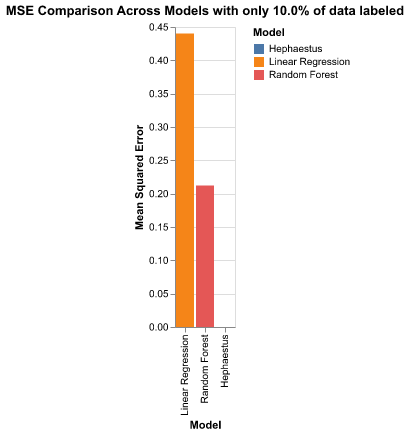
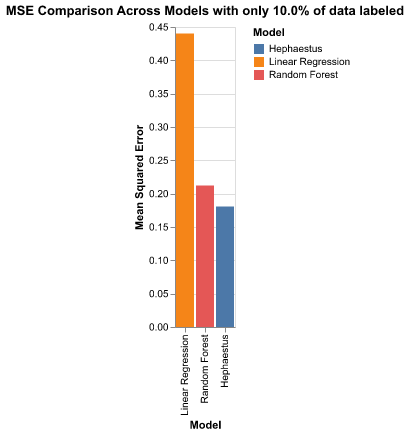
Refactor model training and visualization logic to improve MSE calculations, add baseline rules, and enhance performance improvement analysis

Changed region(s): [[0.5268, 0.4472, 0.5854, 0.7752]]

diff --git a/result_images/model_performance_comparison.html b/result_images/model_performance_comparison.html
@@ -21,7 +21,7 @@
   <div id="vis"></div>
   <script>
     (function(vegaEmbed) {
-      var spec = {"config": {"view": {"continuousWidth": 300, "continuousHeight": 300}}, "data": {"name": "data-e185016aee7650a039ba29e7da6c80b7"}, "mark": {"type": "line", "point": true}, "encoding": {"color": {"field": "Model", "type": "nominal"}, "tooltip": [{"field": "Model", "type": "nominal"}, {"field": "Label Ratio", "type": "quantitative"}, {"field": "MSE", "type": "quantitative"}, {"field": "RMSE", "type": "quantitative"}], "x": {"field": "Label Ratio", "scale": {"type": "log"}, "title": "Fraction of Labeled Data", "type": "quantitative"}, "y": {"field": "MSE", "title": "Mean Squared Error", "type": "quantitative"}}, "height": 400, "title": "MSE Comparison Across Models with Different Amounts of Labeled Data", "width": 600, "$schema": "https://vega.github.io/schema/vega-lite/v5.20.1.json", "datasets": {"data-e185016aee7650a039ba29e7da6c80b7": [{"Model": "Hephaestus", "Label Ratio": 0.01, "MSE": 6.692243223420659e-16, "RMSE": 2.586937035070753e-08}, {"Model": "Hephaestus", "Label Ratio": 0.05, "MSE": 6.692243223420659e-16, "RMSE": 2.586937035070753e-08}, {"Model": "Hephaestus", "Label Ratio": 0.1, "MSE": 6.692243223420659e-16, "RMSE": 2.586937035070753e-08}, {"Model": "Hephaestus", "Label Ratio": 0.25, "MSE": 6.692243223420659e-16, "RMSE": 2.586937035070753e-08}, {"Model": "Hephaestus", "Label Ratio": 0.5, "MSE": 6.692243223420659e-16, "RMSE": 2.586937035070753e-08}, {"Model": "Hephaestus", "Label Ratio": 1.0, "MSE": 6.692243223420659e-16, "RMSE": 2.586937035070753e-08}, {"Model": "Linear Regression", "Label Ratio": 0.01, "MSE": 0.48156395844291183, "RMSE": 0.6939480949198663}, {"Model": "Linear Regression", "Label Ratio": 0.05, "MSE": 0.4458963140867101, "RMSE": 0.6677546810668646}, {"Model": "Linear Regression", "Label Ratio": 0.1, "MSE": 0.4403838031643668, "RMSE": 0.6636141975307391}, {"Model": "Linear Regression", "Label Ratio": 0.25, "MSE": 0.43932950685677163, "RMSE": 0.662819362161948}, {"Model": "Linear Regression", "Label Ratio": 0.5, "MSE": 0.43859193723572454, "RMSE": 0.6622627403347742}, {"Model": "Linear Regression", "Label Ratio": 1.0, "MSE": 0.4381498653200293, "RMSE": 0.6619288974807108}, {"Model": "Random Forest", "Label Ratio": 0.01, "MSE": 0.3630260343700618, "RMSE": 0.6025164183406638}, {"Model": "Random Forest", "Label Ratio": 0.05, "MSE": 0.24771187915774268, "RMSE": 0.4977066195639181}, {"Model": "Random Forest", "Label Ratio": 0.1, "MSE": 0.21230256625342994, "RMSE": 0.46076302613537684}, {"Model": "Random Forest", "Label Ratio": 0.25, "MSE": 0.17171763245384794, "RMSE": 0.4143882629296442}, {"Model": "Random Forest", "Label Ratio": 0.5, "MSE": 0.13919877975624775, "RMSE": 0.37309352682169084}, {"Model": "Random Forest", "Label Ratio": 1.0, "MSE": 0.1119427704347617, "RMSE": 0.33457849667120226}]}};
+      var spec = {"config": {"view": {"continuousWidth": 300, "continuousHeight": 300}}, "layer": [{"data": {"name": "data-6900d74db8a878ed460acbf49b2a9186"}, "mark": {"type": "line", "point": true}, "encoding": {"color": {"field": "Model", "type": "nominal"}, "tooltip": [{"field": "Model", "type": "nominal"}, {"field": "Label Ratio", "type": "quantitative"}, {"field": "MSE", "type": "quantitative"}, {"field": "RMSE", "type": "quantitative"}], "x": {"field": "Label Ratio", "scale": {"type": "log"}, "title": "Fraction of Labeled Data", "type": "quantitative"}, "y": {"field": "MSE", "title": "Mean Squared Error", "type": "quantitative"}}, "title": "MSE Comparison Across Models with Different Amounts of Labeled Data"}, {"data": {"name": "data-2050f628a73e4ef6bbdae8a7ec1cb21c"}, "mark": {"type": "rule", "strokeDash": [2, 2]}, "encoding": {"color": {"field": "Model", "type": "nominal"}, "tooltip": [{"field": "Model", "type": "nominal"}, {"field": "MSE", "type": "quantitative"}], "y": {"field": "MSE", "type": "quantitative"}}}], "height": 400, "width": 600, "$schema": "https://vega.github.io/schema/vega-lite/v5.20.1.json", "datasets": {"data-6900d74db8a878ed460acbf49b2a9186": [{"Model": "Hephaestus", "Label Ratio": 0.01, "MSE": 0.2729865610599518, "RMSE": 0.5224811585693323}, {"Model": "Hephaestus", "Label Ratio": 0.05, "MSE": 0.2070818543434143, "RMSE": 0.45506247301157926}, {"Model": "Hephaestus", "Label Ratio": 0.1, "MSE": 0.18058502674102783, "RMSE": 0.4249529700343649}, {"Model": "Hephaestus", "Label Ratio": 0.25, "MSE": 0.14500319957733154, "RMSE": 0.3807928565208801}, {"Model": "Hephaestus", "Label Ratio": 0.5, "MSE": 0.09879584610462189, "RMSE": 0.31431806518974037}, {"Model": "Hephaestus", "Label Ratio": 1.0, "MSE": 0.09274991601705551, "RMSE": 0.3045487087758796}, {"Model": "Linear Regression", "Label Ratio": 0.01, "MSE": 0.48156395844291183, "RMSE": 0.6939480949198663}, {"Model": "Linear Regression", "Label Ratio": 0.05, "MSE": 0.4458963140867101, "RMSE": 0.6677546810668646}, {"Model": "Linear Regression", "Label Ratio": 0.1, "MSE": 0.4403838031643668, "RMSE": 0.6636141975307391}, {"Model": "Linear Regression", "Label Ratio": 0.25, "MSE": 0.43932950685677163, "RMSE": 0.662819362161948}, {"Model": "Linear Regression", "Label Ratio": 0.5, "MSE": 0.43859193723572454, "RMSE": 0.6622627403347742}, {"Model": "Linear Regression", "Label Ratio": 1.0, "MSE": 0.4381498653200293, "RMSE": 0.6619288974807108}, {"Model": "Random Forest", "Label Ratio": 0.01, "MSE": 0.3630260343700618, "RMSE": 0.6025164183406638}, {"Model": "Random Forest", "Label Ratio": 0.05, "MSE": 0.24771187915774268, "RMSE": 0.4977066195639181}, {"Model": "Random Forest", "Label Ratio": 0.1, "MSE": 0.21230256625342994, "RMSE": 0.46076302613537684}, {"Model": "Random Forest", "Label Ratio": 0.25, "MSE": 0.17171763245384794, "RMSE": 0.4143882629296442}, {"Model": "Random Forest", "Label Ratio": 0.5, "MSE": 0.13919877975624775, "RMSE": 0.37309352682169084}, {"Model": "Random Forest", "Label Ratio": 1.0, "MSE": 0.1119427704347617, "RMSE": 0.33457849667120226}], "data-2050f628a73e4ef6bbdae8a7ec1cb21c": [{"Model": "Hephaestus", "MSE": 0.09274991601705551}, {"Model": "Linear Regression", "MSE": 0.4381498653200293}, {"Model": "Random Forest", "MSE": 0.1119427704347617}]}};
       var embedOpt = {"mode": "vega-lite"};
 
       function showError(el, error){

diff --git a/result_images/model_performance_bars.html b/result_images/model_performance_bars.html
@@ -21,7 +21,7 @@
   <div id="vis"></div>
   <script>
     (function(vegaEmbed) {
-      var spec = {"config": {"view": {"continuousWidth": 300, "continuousHeight": 300}}, "data": {"name": "data-308078dd370307d210d742e8038265e9"}, "mark": {"type": "bar"}, "encoding": {"color": {"field": "Model", "type": "nominal"}, "column": {"field": "Label Ratio", "title": "Fraction of Labeled Data", "type": "nominal"}, "tooltip": [{"field": "Model", "type": "nominal"}, {"field": "Label Ratio", "type": "quantitative"}, {"field": "MSE", "type": "quantitative"}, {"field": "RMSE", "type": "quantitative"}], "x": {"field": "Model", "title": "Model", "type": "nominal"}, "y": {"field": "MSE", "title": "Mean Squared Error", "type": "quantitative"}}, "title": "MSE Comparison at Different Label Ratios", "width": 200, "$schema": "https://vega.github.io/schema/vega-lite/v5.20.1.json", "datasets": {"data-308078dd370307d210d742e8038265e9": [{"Model": "Hephaestus", "Label Ratio": 0.1, "MSE": 6.692243223420659e-16, "RMSE": 2.586937035070753e-08}, {"Model": "Hephaestus", "Label Ratio": 0.5, "MSE": 6.692243223420659e-16, "RMSE": 2.586937035070753e-08}, {"Model": "Hephaestus", "Label Ratio": 1.0, "MSE": 6.692243223420659e-16, "RMSE": 2.586937035070753e-08}, {"Model": "Linear Regression", "Label Ratio": 0.1, "MSE": 0.4403838031643668, "RMSE": 0.6636141975307391}, {"Model": "Linear Regression", "Label Ratio": 0.5, "MSE": 0.43859193723572454, "RMSE": 0.6622627403347742}, {"Model": "Linear Regression", "Label Ratio": 1.0, "MSE": 0.4381498653200293, "RMSE": 0.6619288974807108}, {"Model": "Random Forest", "Label Ratio": 0.1, "MSE": 0.21230256625342994, "RMSE": 0.46076302613537684}, {"Model": "Random Forest", "Label Ratio": 0.5, "MSE": 0.13919877975624775, "RMSE": 0.37309352682169084}, {"Model": "Random Forest", "Label Ratio": 1.0, "MSE": 0.1119427704347617, "RMSE": 0.33457849667120226}]}};
+      var spec = {"config": {"view": {"continuousWidth": 300, "continuousHeight": 300}}, "data": {"name": "data-052e22b34c440a1130fc91d797729b30"}, "facet": {"column": {"field": "Label Ratio", "title": "Fraction of Labeled Data", "type": "nominal"}}, "spec": {"layer": [{"mark": {"type": "bar"}, "encoding": {"color": {"field": "Model", "type": "nominal"}, "opacity": {"condition": {"test": "datum.is_best", "value": 1}, "value": 0.6}, "stroke": {"condition": {"test": "datum.is_best", "value": "black"}, "value": null}, "strokeWidth": {"condition": {"test": "datum.is_best", "value": 2}, "value": 0}, "tooltip": [{"field": "Model", "type": "nominal"}, {"field": "Label Ratio", "type": "quantitative"}, {"field": "MSE", "type": "quantitative"}, {"field": "RMSE", "type": "quantitative"}], "x": {"field": "Model", "title": "Model", "type": "nominal"}, "y": {"field": "MSE", "title": "Mean Squared Error", "type": "quantitative"}}, "title": "MSE Comparison at Different Label Ratios"}, {"mark": {"type": "text", "align": "center", "baseline": "top", "dy": 5, "fontSize": 10}, "encoding": {"opacity": {"condition": {"test": "datum.is_best", "value": 1}, "value": 0}, "text": {"field": "Model", "type": "nominal"}, "x": {"field": "Model", "type": "nominal"}, "y": {"field": "MSE", "type": "quantitative"}}, "title": "MSE Comparison at Different Label Ratios"}], "width": 200}, "$schema": "https://vega.github.io/schema/vega-lite/v5.20.1.json", "datasets": {"data-052e22b34c440a1130fc91d797729b30": [{"Model": "Hephaestus", "Label Ratio": 0.1, "MSE": 0.18058502674102783, "RMSE": 0.4249529700343649, "is_best": true}, {"Model": "Hephaestus", "Label Ratio": 0.5, "MSE": 0.09879584610462189, "RMSE": 0.31431806518974037, "is_best": true}, {"Model": "Hephaestus", "Label Ratio": 1.0, "MSE": 0.09274991601705551, "RMSE": 0.3045487087758796, "is_best": true}, {"Model": "Linear Regression", "Label Ratio": 0.1, "MSE": 0.4403838031643668, "RMSE": 0.6636141975307391, "is_best": false}, {"Model": "Linear Regression", "Label Ratio": 0.5, "MSE": 0.43859193723572454, "RMSE": 0.6622627403347742, "is_best": false}, {"Model": "Linear Regression", "Label Ratio": 1.0, "MSE": 0.4381498653200293, "RMSE": 0.6619288974807108, "is_best": false}, {"Model": "Random Forest", "Label Ratio": 0.1, "MSE": 0.21230256625342994, "RMSE": 0.46076302613537684, "is_best": false}, {"Model": "Random Forest", "Label Ratio": 0.5, "MSE": 0.13919877975624775, "RMSE": 0.37309352682169084, "is_best": false}, {"Model": "Random Forest", "Label Ratio": 1.0, "MSE": 0.1119427704347617, "RMSE": 0.33457849667120226, "is_best": false}]}};
       var embedOpt = {"mode": "vega-lite"};
 
       function showError(el, error){

diff --git a/result_images/performance_improvement.html b/result_images/performance_improvement.html
@@ -1,0 +1,42 @@
+<!DOCTYPE html>
+<html>
+<head>
+  <meta charset="UTF-8">
+  <style>
+    #vis.vega-embed {
+      width: 100%;
+      display: flex;
+    }
+
+    #vis.vega-embed details,
+    #vis.vega-embed details summary {
+      position: relative;
+    }
+  </style>
+  <script type="text/javascript" src="https://cdn.jsdelivr.net/npm/vega@5"></script>
+  <script type="text/javascript" src="https://cdn.jsdelivr.net/npm/vega-lite@5.20.1"></script>
+  <script type="text/javascript" src="https://cdn.jsdelivr.net/npm/vega-embed@6"></script>
+</head>
+<body>
+  <div id="vis"></div>
+  <script>
+    (function(vegaEmbed) {
+      var spec = {"config": {"view": {"continuousWidth": 300, "continuousHeight": 300}}, "layer": [{"data": {"name": "data-2a881776b9de90460feee09794414d68"}, "mark": {"type": "line", "point": true}, "encoding": {"tooltip": [{"field": "Label Ratio", "type": "quantitative"}, {"field": "Improvement (%)", "type": "quantitative"}, {"field": "Best Traditional Model", "type": "nominal"}], "x": {"field": "Label Ratio", "scale": {"type": "log"}, "title": "Fraction of Labeled Data", "type": "quantitative"}, "y": {"field": "Improvement (%)", "title": "Improvement (%)", "type": "quantitative"}}, "title": "Hephaestus Performance Improvement over Traditional Models"}, {"data": {"name": "data-a0a55d106695e8d630baff0f16eee66d"}, "mark": {"type": "rule", "color": "gray", "strokeDash": [3, 3]}, "encoding": {"y": {"field": "y", "type": "quantitative"}}}], "height": 400, "width": 600, "$schema": "https://vega.github.io/schema/vega-lite/v5.20.1.json", "datasets": {"data-2a881776b9de90460feee09794414d68": [{"Label Ratio": 0.01, "Hephaestus MSE": 0.2729865610599518, "Best Traditional Model": "Random Forest", "Best Traditional MSE": 0.3630260343700618, "Improvement (%)": 24.802483785040472}, {"Label Ratio": 0.05, "Hephaestus MSE": 0.2070818543434143, "Best Traditional Model": "Random Forest", "Best Traditional MSE": 0.24771187915774268, "Improvement (%)": 16.402130149137985}, {"Label Ratio": 0.1, "Hephaestus MSE": 0.18058502674102783, "Best Traditional Model": "Random Forest", "Best Traditional MSE": 0.21230256625342994, "Improvement (%)": 14.939781497761187}, {"Label Ratio": 0.25, "Hephaestus MSE": 0.14500319957733154, "Best Traditional Model": "Random Forest", "Best Traditional MSE": 0.17171763245384794, "Improvement (%)": 15.557186815801435}, {"Label Ratio": 0.5, "Hephaestus MSE": 0.09879584610462189, "Best Traditional Model": "Random Forest", "Best Traditional MSE": 0.13919877975624775, "Improvement (%)": 29.025350453772518}, {"Label Ratio": 1.0, "Hephaestus MSE": 0.09274991601705551, "Best Traditional Model": "Random Forest", "Best Traditional MSE": 0.1119427704347617, "Improvement (%)": 17.14523800256618}], "data-a0a55d106695e8d630baff0f16eee66d": [{"y": 0}]}};
+      var embedOpt = {"mode": "vega-lite"};
+
+      function showError(el, error){
+          el.innerHTML = ('<div style="color:red;">'
+                          + '<p>JavaScript Error: ' + error.message + '</p>'
+                          + "<p>This usually means there's a typo in your chart specification. "
+                          + "See the javascript console for the full traceback.</p>"
+                          + '</div>');
+          throw error;
+      }
+      const el = document.getElementById('vis');
+      vegaEmbed("#vis", spec, embedOpt)
+        .catch(error => showError(el, error));
+    })(vegaEmbed);
+
+  </script>
+</body>
+</html>

diff --git a/turbine_limited.py b/turbine_limited.py
@@ -305,7 +305,7 @@ def train_hephaestus_model(
     y_hat = torch.cat(y_hat, dim=0).squeeze().numpy()
 
     # Calculate metrics
-    mse = mean_squared_error(y, y_test)
+    mse = mean_squared_error(y, y_hat)
     rmse = np.sqrt(mse)
 
     # Return model and metrics
@@ -519,29 +519,72 @@ mse_chart = (
     )
 )
 
-mse_chart.save("result_images/model_performance_comparison.html")
-mse_chart.show()
+# Add a baseline rule at the minimum MSE value for each model
+min_mse_by_model = results_df.groupby("Model")["MSE"].min().reset_index()
+
+baseline_rules = (
+    alt.Chart(min_mse_by_model)
+    .mark_rule(strokeDash=[2, 2])
+    .encode(y="MSE:Q", color=alt.Color("Model:N"), tooltip=["Model", "MSE"])
+)
+
+combined_chart = mse_chart + baseline_rules
+combined_chart.save("result_images/model_performance_comparison.html")
+combined_chart.show()
 
 # %%
 # Plot a bar chart showing MSE for specific label ratios (e.g., 0.1, 0.5, 1.0)
 selected_ratios = [0.1, 0.5, 1.0]
 filtered_df = results_df[results_df["Label Ratio"].isin(selected_ratios)]
 
-bar_chart = (
-    alt.Chart(filtered_df)
-    .mark_bar()
-    .encode(
-        x=alt.X("Model:N", title="Model"),
-        y=alt.Y("MSE:Q", title="Mean Squared Error"),
-        color="Model:N",
-        column=alt.Column("Label Ratio:N", title="Fraction of Labeled Data"),
-        tooltip=["Model", "Label Ratio", "MSE", "RMSE"],
-    )
-    .properties(title="MSE Comparison at Different Label Ratios", width=200)
+# Calculate the min MSE for each label ratio to highlight the best model
+best_models = filtered_df.loc[filtered_df.groupby("Label Ratio")["MSE"].idxmin()]
+best_models["is_best"] = True
+filtered_df = pd.merge(
+    filtered_df,
+    best_models[["Model", "Label Ratio", "is_best"]],
+    on=["Model", "Label Ratio"],
+    how="left",
+)
+filtered_df["is_best"] = filtered_df["is_best"].fillna(False)
+
+# Create the bar chart with highlight for best model
+# Create a base chart first, then apply faceting
+base = alt.Chart(filtered_df).properties(
+    title="MSE Comparison at Different Label Ratios", width=200
 )
 
-bar_chart.save("result_images/model_performance_bars.html")
-bar_chart.show()
+# Create the bar chart
+bar_chart = base.mark_bar().encode(
+    x=alt.X("Model:N", title="Model"),
+    y=alt.Y("MSE:Q", title="Mean Squared Error"),
+    color=alt.Color("Model:N"),
+    tooltip=["Model", "Label Ratio", "MSE", "RMSE"],
+    opacity=alt.condition(alt.datum.is_best, alt.value(1), alt.value(0.6)),
+    strokeWidth=alt.condition(alt.datum.is_best, alt.value(2), alt.value(0)),
+    stroke=alt.condition(alt.datum.is_best, alt.value("black"), alt.value(None)),
+)
+
+# Add text labels for the best model
+best_model_text = base.mark_text(
+    align="center", baseline="top", dy=5, fontSize=10
+).encode(
+    x=alt.X("Model:N"),
+    y=alt.Y("MSE:Q"),
+    text=alt.Text("Model:N"),
+    opacity=alt.condition(alt.datum.is_best, alt.value(1), alt.value(0)),
+)
+
+# Layer the visualizations before faceting
+combined_layer = alt.layer(bar_chart, best_model_text)
+
+# Apply faceting after layering
+combined_bar_chart = combined_layer.facet(
+    column=alt.Column("Label Ratio:N", title="Fraction of Labeled Data")
+)
+
+combined_bar_chart.save("result_images/model_performance_bars.html")
+combined_bar_chart.show()
 
 # %%
 # Plot individual model visualizations for the 10% labeled data case
@@ -619,4 +662,73 @@ mse_chart_10 = (
 
 mse_chart_10.save("result_images/model_performance_10.png")
 mse_chart_10.show()
+
+# %%
+Markdown("""## Performance Improvement Analysis
+
+Calculate how much better Hephaestus performs compared to traditional models at each data fraction.
+""")
+
+# Calculate performance improvement percentages
+improvement_rows = []
+
+for fraction in data_fractions:
+    # Get results for this fraction
+    hep_result = next(r for r in hephaestus_results if r["label_ratio"] == fraction)
+    lr_result = next(r for r in lr_results if r["label_ratio"] == fraction)
+    rf_result = next(r for r in rf_results if r["label_ratio"] == fraction)
+
+    # Calculate best traditional model MSE at this fraction
+    trad_mse = min(lr_result["mse"], rf_result["mse"])
+    best_trad_model = (
+        "Linear Regression" if lr_result["mse"] < rf_result["mse"] else "Random Forest"
+    )
+
+    # Calculate improvement percentage
+    improvement_pct = ((trad_mse - hep_result["mse"]) / trad_mse) * 100
+
+    improvement_rows.append(
+        {
+            "Label Ratio": fraction,
+            "Hephaestus MSE": hep_result["mse"],
+            "Best Traditional Model": best_trad_model,
+            "Best Traditional MSE": trad_mse,
+            "Improvement (%)": improvement_pct,
+        }
+    )
+
+improvement_df = pd.DataFrame(improvement_rows)
+print(improvement_df)
+
+# %%
+# Plot improvement percentage vs data fraction
+improvement_chart = (
+    alt.Chart(improvement_df)
+    .mark_line(point=True)
+    .encode(
+        x=alt.X(
+            "Label Ratio:Q",
+            title="Fraction of Labeled Data",
+            scale=alt.Scale(type="log"),
+        ),
+        y=alt.Y("Improvement (%):Q", title="Improvement (%)"),
+        tooltip=["Label Ratio", "Improvement (%)", "Best Traditional Model"],
+    )
+    .properties(
+        title="Hephaestus Performance Improvement over Traditional Models",
+        width=600,
+        height=400,
+    )
+)
+
+# Add a zero line to show threshold where Hephaestus becomes better
+zero_line = (
+    alt.Chart(pd.DataFrame({"y": [0]}))
+    .mark_rule(strokeDash=[3, 3], color="gray")
+    .encode(y="y")
+)
+
+improvement_chart_with_line = improvement_chart + zero_line
+improvement_chart_with_line.save("result_images/performance_improvement.html")
+improvement_chart_with_line.show()
 # %%
